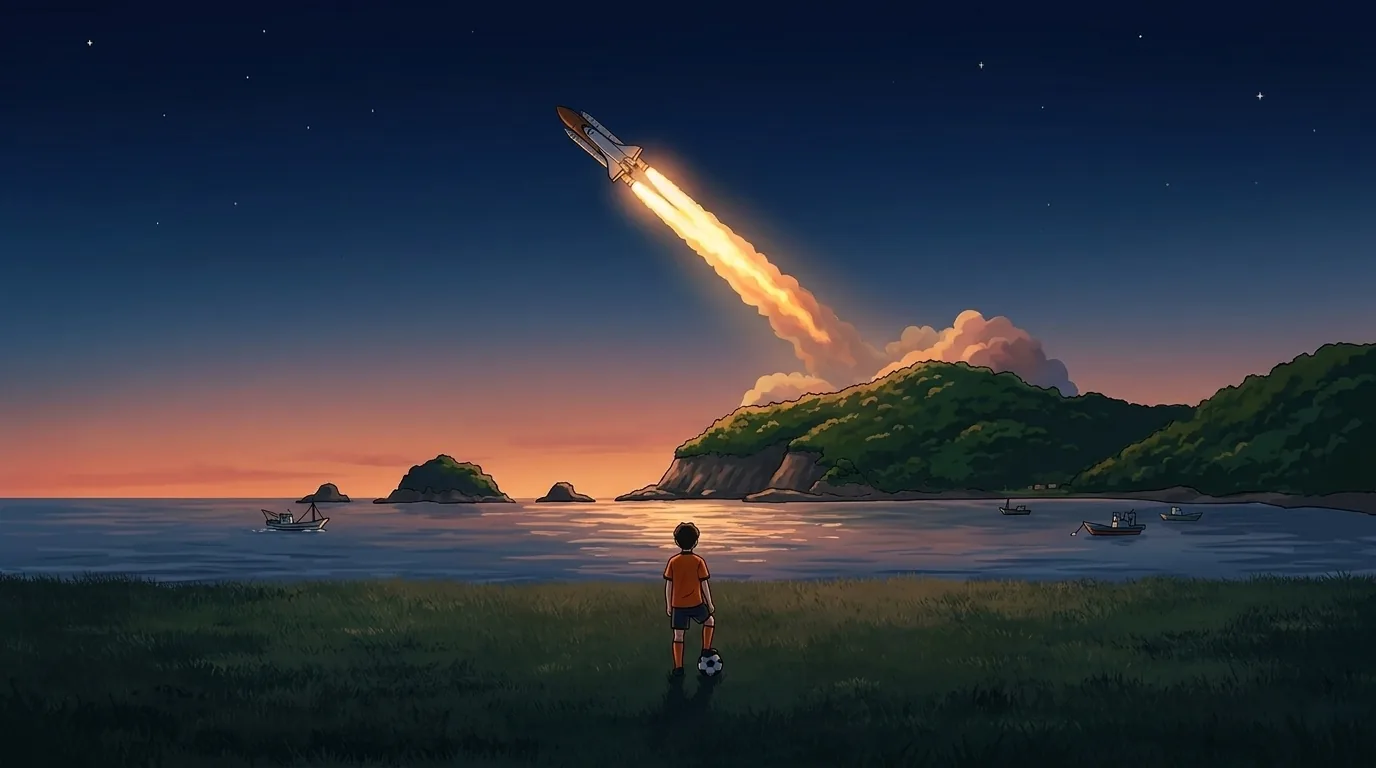
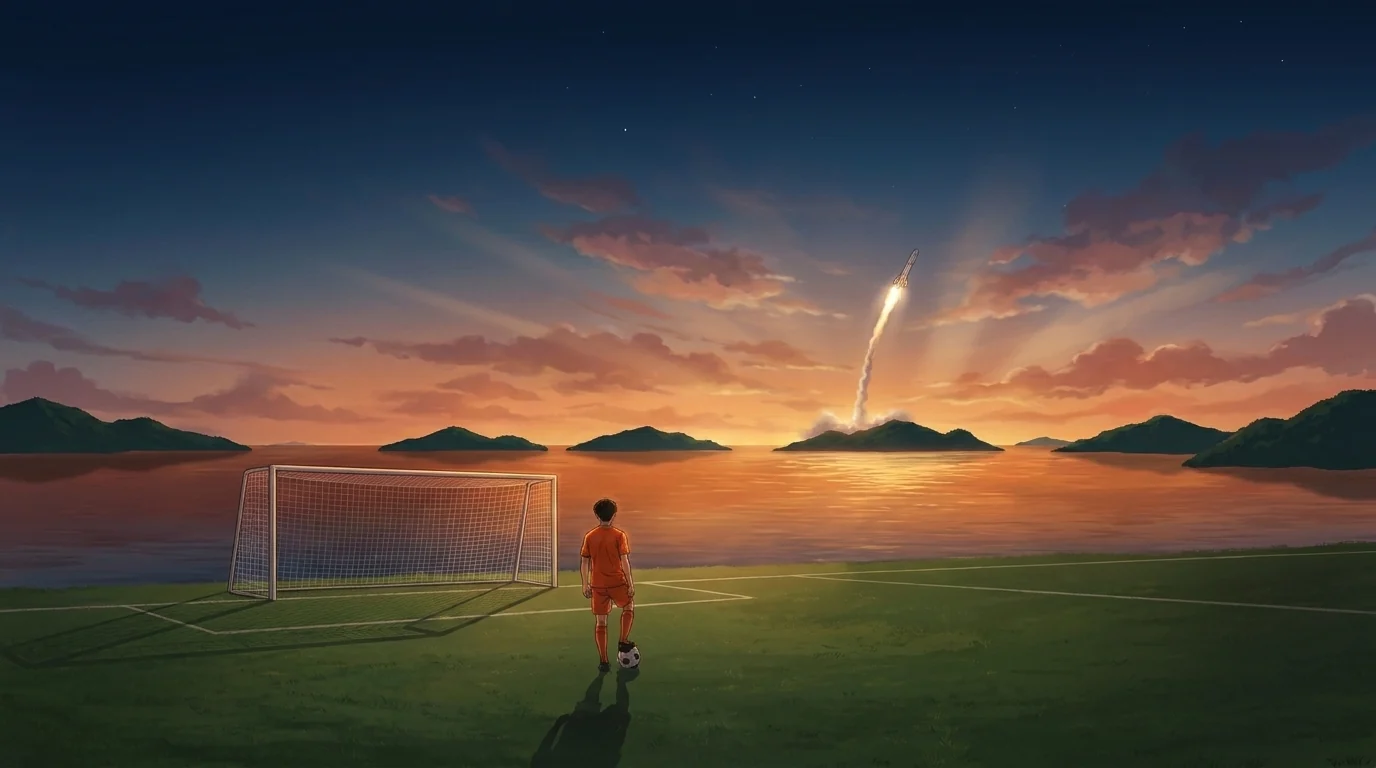
타이틀 그림 교체와 가운데 정렬 배치로 다시 설계 (HANDOFF §48)
Claude-Session: https://claude.ai/code/session_01UJPqURHURS7BfF7J2dMEg2

diff --git a/css/fc.css b/css/fc.css
@@ -167,74 +167,74 @@ body::before {
 .sheet { background: linear-gradient(180deg, rgba(28,38,92,.96), rgba(12,17,44,.98)); border: 1px solid var(--line); border-top: 3px solid var(--kit); }
 .sheet h2 { letter-spacing: .01em; }
 
-/* ── 타이틀 ───────────────────────── */
-.fc-title { position: relative; min-height: 100dvh; overflow: hidden; display: grid; grid-template-rows: 1fr auto auto auto;
-  padding: 28px max(20px, 6vw) calc(28px + env(safe-area-inset-bottom, 0px)); cursor: pointer; }
-.ft-bg { position: absolute; inset: 0; z-index: -1;
-  background: radial-gradient(80% 60% at 70% 20%, rgba(255,107,26,.38), transparent 60%), radial-gradient(70% 60% at 10% 90%, rgba(45,63,209,.5), transparent 60%), #05070F; }
-.ft-bg img { position: absolute; inset: 0; width: 100%; height: 100%; object-fit: cover; opacity: .55; animation: kenburns 20s ease-out forwards; }
-.ft-bg::after { content: ""; position: absolute; inset: 0; background: linear-gradient(180deg, rgba(5,7,15,.1) 30%, rgba(5,7,15,.92) 100%); }
+/* ── 타이틀 (§48: 가운데 정렬로 다시 설계) ──────────
+   PC·휴대폰 그림은 같은 장면(아이·골대·섬에서 오르는 로켓). 로고 묶음은 위쪽 하늘 가운데, 로켓보다 위.
+   "화면을 눌러 시작"과 메뉴는 아래 가운데. 메뉴를 열면 아래를 어둡게 해서 글이 그림에 묻히지 않게 */
+.fc-title { position: relative; min-height: 100dvh; overflow: hidden; display: flex; flex-direction: column; align-items: center; text-align: center;
+  padding: calc(max(5dvh, 44px) + env(safe-area-inset-top, 0px)) max(20px, 5vw) calc(18px + env(safe-area-inset-bottom, 0px)); cursor: pointer; }
+.ft-bg { position: absolute; inset: 0; z-index: -1; background: #05070F; }
+.ft-bg img { position: absolute; inset: 0; width: 100%; height: 100%; object-fit: cover; object-position: 50% 60%; animation: kenburns 24s ease-out forwards; }
+.ft-bg::after { content: ""; position: absolute; inset: 0; transition: background .5s;
+  background: linear-gradient(180deg, rgba(5,7,15,.62) 0%, rgba(5,7,15,.28) 24%, rgba(5,7,15,0) 42%, rgba(5,7,15,0) 70%, rgba(5,7,15,.45) 88%, rgba(5,7,15,.75) 100%); }
+.fc-title.open .ft-bg::after {
+  background: linear-gradient(180deg, rgba(5,7,15,.62) 0%, rgba(5,7,15,.3) 24%, rgba(5,7,15,.25) 40%, rgba(5,7,15,.72) 62%, rgba(5,7,15,.9) 100%); }
 .ft-streak { position: absolute; z-index: 1; width: 160%; height: 2px; left: -30%; background: linear-gradient(90deg, transparent, rgba(255,178,63,.9), transparent);
   transform: rotate(-18deg); filter: blur(.5px); animation: streak 6s linear infinite; opacity: 0; }
 .ft-streak.s1 { top: 30%; } .ft-streak.s2 { top: 52%; animation-delay: 2s; height: 1px; } .ft-streak.s3 { top: 72%; animation-delay: 4s; }
-@keyframes streak { 0% { opacity: 0; transform: rotate(-18deg) translateX(-30%); } 15% { opacity: 1; } 60% { opacity: 0; transform: rotate(-18deg) translateX(30%); } 100% { opacity: 0; } }
-.ft-brand { align-self: end; display: flex; align-items: flex-end; gap: 18px; position: relative; z-index: 2; animation: rise .9s ease-out both; }
-.ft-logo { width: clamp(84px, 16vw, 130px); filter: drop-shadow(0 12px 30px rgba(0,0,0,.6)); }
-.ft-kicker { font-family: var(--fc); font-style: italic; font-weight: 800; letter-spacing: .2em; color: var(--kit-2); font-size: 14px; }
-.ft-name { margin: 2px 0 4px; font-family: var(--fc); font-style: italic; font-weight: 800; font-size: clamp(54px, 13vw, 120px); line-height: .86; letter-spacing: -.01em;
-  background: linear-gradient(180deg, #fff 30%, #FFC48A 100%); -webkit-background-clip: text; background-clip: text; color: transparent; }
-.ft-ko { margin: 0; font-family: var(--display); font-size: clamp(16px, 4vw, 22px); color: var(--chalk); }
-.ft-press { justify-self: center; margin-top: 34px; background: none; border: 0; color: #fff; font-family: var(--display); font-size: 18px; letter-spacing: .1em;
-  animation: pulse 1.6s ease-in-out infinite; position: relative; z-index: 2; }
-.ft-menu { display: grid; gap: 10px; margin-top: 28px; position: relative; z-index: 2; max-width: 520px; width: 100%; justify-self: start; animation: rise .4s ease-out both; }
-.ft-tile { display: grid; gap: 2px; text-align: left; padding: 14px 20px; border: 0; color: #fff;
-  background: linear-gradient(90deg, rgba(255,255,255,.12), rgba(255,255,255,.03)); border-left: 4px solid rgba(255,255,255,.4);
-  clip-path: polygon(0 0, 100% 0, calc(100% - 14px) 100%, 0 100%); transition: transform .15s, background .15s; }
-.ft-tile:hover, .ft-tile:focus-visible { transform: translateX(6px); background: linear-gradient(90deg, rgba(255,107,26,.5), rgba(255,107,26,.08)); border-left-color: var(--kit-2); }
-.ft-tile.main { background: var(--grad-kit); border-left-color: #fff; }
-.ft-t { font-family: var(--display); font-size: 20px; }
-.ft-s { font-size: 13px; opacity: .85; }
-.ft-foot { margin: 22px 0 0; font-size: 12px; color: var(--dim); position: relative; z-index: 2; }
-@media (min-width: 900px) {
-  .fc-title { grid-template-columns: 1.2fr 1fr; grid-template-rows: 1fr auto; column-gap: 40px; }
-  .ft-brand { grid-column: 1; grid-row: 1; min-width: 0; }
-  .ft-name { font-size: clamp(54px, 7vw, 120px); }                 /* 메뉴 칸을 침범하지 않게 왼쪽 칸 너비에 맞춤 */
-  .ft-press { grid-column: 2; grid-row: 1; align-self: end; }
-  .ft-menu { grid-column: 2; grid-row: 1; align-self: end; margin: 0; }
-  .ft-foot { grid-column: 1 / -1; }
+@keyframes streak { 0% { opacity: 0; transform: rotate(-18deg) translateX(-30%); } 15% { opacity: .6; } 60% { opacity: 0; transform: rotate(-18deg) translateX(30%); } 100% { opacity: 0; } }
+
+/* 로고 묶음: 엠블럼 + 글자, 묶음 전체를 가운데에 */
+.ft-brand { display: flex; align-items: center; justify-content: center; gap: clamp(12px, 2vw, 22px); position: relative; z-index: 2; text-align: left; animation: rise .9s ease-out both; }
+.ft-logo { width: clamp(64px, 9vw, 112px); flex: none; filter: drop-shadow(0 10px 24px rgba(0,0,0,.55)); }
+.ft-words { min-width: 0; }
+.ft-kicker { font-family: var(--fc); font-style: italic; font-weight: 800; letter-spacing: .22em; color: var(--kit-2); font-size: clamp(11px, 1.2vw, 14px); text-shadow: 0 1px 8px rgba(0,0,0,.6); }
+.ft-name { margin: 2px 0 4px; font-family: var(--fc); font-style: italic; font-weight: 800; font-size: clamp(44px, 6.4vw, 96px); line-height: .9; letter-spacing: -.01em;
+  background: linear-gradient(180deg, #fff 40%, #FFD9B8); -webkit-background-clip: text; background-clip: text; color: transparent; filter: drop-shadow(0 4px 18px rgba(0,0,0,.55)); }
+.ft-br { display: none; }
+.ft-ko { margin: 0; font-family: var(--display); font-size: clamp(14px, 1.6vw, 20px); color: var(--chalk); letter-spacing: .04em; text-shadow: 0 1px 8px rgba(0,0,0,.7); }
+
+/* 시작 안내는 로고 바로 아래 하늘에(아이·공을 가리지 않게). 메뉴·로그인 정보·만든 사람은 아래 가운데 */
+.ft-press { margin-top: clamp(14px, 3.5dvh, 36px); background: none; border: 0; color: #fff; font-family: var(--display); font-size: clamp(16px, 1.6vw, 19px); letter-spacing: .14em;
+  padding: 10px 22px; text-shadow: 0 2px 12px rgba(0,0,0,.8); animation: pulse 1.6s ease-in-out infinite; position: relative; z-index: 2; }
+.ft-menu { margin-top: auto; display: grid; gap: 10px; width: min(440px, 100%); position: relative; z-index: 2; animation: rise .4s ease-out both; }
+.ft-tile { position: relative; display: grid; margin: 0; max-width: none;   /* style.css의 .main(margin auto)이 "새 커리어" 칸을 좁히던 것 막음 */
+  gap: 2px; text-align: left; padding: 14px 44px 14px 20px; color: #fff; border-radius: 14px;
+  background: rgba(14,20,46,.58); border: 1px solid rgba(255,255,255,.14); backdrop-filter: blur(8px); -webkit-backdrop-filter: blur(8px);
+  box-shadow: 0 8px 24px rgba(0,0,0,.25); transition: background .15s, border-color .15s, transform .15s; }
+.ft-tile::after { content: "›"; position: absolute; right: 18px; top: 50%; transform: translateY(-50%); font-size: 24px; opacity: .6; }
+.ft-tile:hover, .ft-tile:focus-visible { background: rgba(255,107,26,.28); border-color: rgba(255,178,63,.7); transform: translateY(-1px); outline: none; }
+.ft-tile.main { background: var(--grad-kit); border-color: rgba(255,255,255,.35); }
+.ft-tile.main:hover, .ft-tile.main:focus-visible { filter: brightness(1.08); }
+.fc-title .ft-tile:active { transform: scale(.98); }
+.ft-t { font-family: var(--display); font-size: 19px; }
+.ft-s { font-size: 13px; opacity: .82; }
+.fc-title .ft-user { position: static; margin: 14px 0 0; display: flex; flex-wrap: wrap; justify-content: center; text-shadow: 0 1px 6px rgba(0,0,0,.8); }
+.fc-title:not(.open) .ft-user { margin-top: auto; }
+.fc-title:not(.open):not(:has(.ft-user)) .ft-foot { margin-top: auto; }
+.ft-foot { margin: 10px 0 0; font-size: 12px; color: rgba(255,255,255,.55); position: relative; z-index: 2; text-shadow: 0 1px 6px rgba(0,0,0,.8); }
+.fc-title.open { overflow-y: auto; height: 100dvh; }
+
+/* 세로 화면(휴대폰·세로 태블릿): 세로 그림, 이름은 두 줄 */
+@media (orientation: portrait) {
+  .ft-bg img { object-position: 50% 100%; }
+  .fc-title { padding-top: calc(max(8dvh, 64px) + env(safe-area-inset-top, 0px)); }   /* 오른쪽 위 소리·전체 화면 버튼 아래로 */
+  .ft-br { display: inline; }
+  .ft-name { font-size: clamp(40px, 11.5vw, 72px); }
+  .ft-logo { width: clamp(60px, 16vw, 104px); }
+  .ft-kicker { font-size: clamp(10px, 2.8vw, 14px); }
+  .ft-ko { font-size: clamp(14px, 3.8vw, 20px); }
 }
-/* 휴대폰 세로: 세로 그림(title_m). 로고는 하늘 쪽 위에, 아이·그림자·골대가 있는 아래는 비워 둠. 메뉴를 열면 아래를 어둡게 */
-@media (orientation: portrait) and (max-width: 760px) {
-  .fc-title { grid-template-rows: auto auto auto 1fr auto; align-content: start; padding-top: calc(15dvh + env(safe-area-inset-top, 0px)); }
-  .ft-brand { align-self: start; }
-  .ft-bg img { opacity: .9; object-position: 50% 100%; animation: none; }
-  .ft-bg::after { background: linear-gradient(180deg, rgba(5,7,15,.35) 0%, rgba(5,7,15,.45) 30%, rgba(5,7,15,.05) 55%, rgba(5,7,15,0) 75%, rgba(5,7,15,.35) 100%); transition: background .5s; }
-  .fc-title.open .ft-bg::after { background: linear-gradient(180deg, rgba(5,7,15,.4) 0%, rgba(5,7,15,.55) 35%, rgba(5,7,15,.82) 60%, rgba(5,7,15,.92) 100%); }
-  .ft-press { margin-top: 26px; text-shadow: 0 2px 10px rgba(0,0,0,.7); }
-  /* 로그인 정보(관리자·로그아웃)와 "made by"는 맨 아래 두 줄로. 겹치거나 잘리지 않게 화면 흐름 안에 둠 */
-  .fc-title .ft-user { position: static; grid-row: 5; align-self: end; justify-self: center; margin: 18px 0 0; max-width: 100%; flex-wrap: wrap; justify-content: center; }
-  .ft-foot { grid-row: 6; align-self: end; justify-self: center; margin-top: 10px; text-shadow: 0 1px 6px rgba(0,0,0,.8); }
-  /* 메뉴를 열기 전에는 "화면을 눌러 시작" 바로 아래(하늘 쪽)에 두어 아이·그림자를 가리지 않게 */
-  .fc-title:not(.open) .ft-user { grid-row: 3; align-self: start; margin-top: 16px; }
-  .ft-logo { width: clamp(70px, 19vw, 96px); }
-  .ft-brand { gap: 12px; }
-  .ft-name { font-size: clamp(40px, 12.4vw, 64px); }
-  /* 메뉴를 열면 위 여백을 줄이고, 작은 휴대폰에서는 스크롤로 끝까지 */
-  .fc-title.open { padding-top: calc(7dvh + env(safe-area-inset-top, 0px)); overflow-y: auto; height: 100dvh; }
-  .fc-title.open .ft-menu { margin-top: 18px; }
-}
-/* 키가 작은 휴대폰(예: 320×568, 375×667): 메뉴를 열어도 한 화면에 들어오게 촘촘히 */
-@media (orientation: portrait) and (max-width: 760px) and (max-height: 700px) {
-  .fc-title.open { padding-top: calc(max(4dvh, 52px) + env(safe-area-inset-top, 0px)); }
-  .fc-title.open .ft-logo { width: 62px; }
-  .fc-title.open .ft-name { font-size: clamp(34px, 10.5vw, 48px); }
-  .fc-title.open .ft-menu { gap: 7px; margin-top: 12px; }
-  .fc-title.open .ft-tile { padding: 9px 16px; }
+/* 키가 작은 화면: 메뉴를 열어도 한 화면에 들어오게 촘촘히 */
+@media (max-height: 700px) {
+  .fc-title.open { padding-top: calc(58px + env(safe-area-inset-top, 0px)); }
+  .fc-title.open .ft-menu { gap: 7px; }
+  .fc-title.open .ft-tile { padding: 9px 40px 9px 16px; }
   .fc-title.open .ft-t { font-size: 17px; }
   .fc-title.open .ft-s { font-size: 12px; }
-  .fc-title.open .ft-user { margin-top: 10px; }
-  .fc-title.open .ft-foot { margin-top: 6px; }
-  .ft-tile { padding: 12px 18px; }
+}
+@media (max-height: 460px) {     /* 가로로 눕힌 휴대폰 */
+  .fc-title.open .ft-brand { display: none; }
+  .ft-logo { width: 52px; } .ft-name { font-size: 38px; }
 }
 
 /* ── 도입부 덧칠 ─────────────────── */

diff --git a/js/game.bundle.js b/js/game.bundle.js
@@ -18498,10 +18498,10 @@ function renderTitle(app) {
   const auto = readSlot("auto");
   const cont = auto && !auto.state.finished;
   app.root.innerHTML = `<main class="fc-title" id="ft">
-    <div class="ft-bg"><picture><source media="(orientation: portrait) and (max-width: 760px)" srcset="assets/img/title_m.webp"><img src="assets/img/title.webp" data-name="title" alt="" onerror="__bgFallback(this)"></picture><span class="ft-streak s1"></span><span class="ft-streak s2"></span><span class="ft-streak s3"></span></div>
+    <div class="ft-bg"><picture><source media="(orientation: portrait)" srcset="assets/img/title_m.webp"><img src="assets/img/title.webp" data-name="title" alt="" onerror="__bgFallback(this)"></picture><span class="ft-streak s1"></span><span class="ft-streak s2"></span><span class="ft-streak s3"></span></div>
     <div class="ft-brand">
       <img class="ft-logo" src="assets/img/logo.png" alt="고흥FC 엠블럼">
-      <div class="ft-words"><span class="ft-kicker">GOHEUNG FC U-15</span><h1 class="ft-name">DREAM<br>PROJECT</h1><p class="ft-ko">고흥FC 드림 프로젝트</p></div>
+      <div class="ft-words"><span class="ft-kicker">GOHEUNG FC U-15</span><h1 class="ft-name">DREAM <br class="ft-br">PROJECT</h1><p class="ft-ko">고흥FC 드림 프로젝트</p></div>
     </div>
     <button class="ft-press" id="press">화면을 눌러 시작</button>
     <nav class="ft-menu" id="menu" hidden>

diff --git a/js/main.js b/js/main.js
@@ -196,10 +196,10 @@ function renderTitle(app) {
   const auto = readSlot("auto");
   const cont = auto && !auto.state.finished;
   app.root.innerHTML = `<main class="fc-title" id="ft">
-    <div class="ft-bg"><picture><source media="(orientation: portrait) and (max-width: 760px)" srcset="assets/img/title_m.webp"><img src="assets/img/title.webp" data-name="title" alt="" onerror="__bgFallback(this)"></picture><span class="ft-streak s1"></span><span class="ft-streak s2"></span><span class="ft-streak s3"></span></div>
+    <div class="ft-bg"><picture><source media="(orientation: portrait)" srcset="assets/img/title_m.webp"><img src="assets/img/title.webp" data-name="title" alt="" onerror="__bgFallback(this)"></picture><span class="ft-streak s1"></span><span class="ft-streak s2"></span><span class="ft-streak s3"></span></div>
     <div class="ft-brand">
       <img class="ft-logo" src="assets/img/logo.png" alt="고흥FC 엠블럼">
-      <div class="ft-words"><span class="ft-kicker">GOHEUNG FC U-15</span><h1 class="ft-name">DREAM<br>PROJECT</h1><p class="ft-ko">고흥FC 드림 프로젝트</p></div>
+      <div class="ft-words"><span class="ft-kicker">GOHEUNG FC U-15</span><h1 class="ft-name">DREAM <br class="ft-br">PROJECT</h1><p class="ft-ko">고흥FC 드림 프로젝트</p></div>
     </div>
     <button class="ft-press" id="press">화면을 눌러 시작</button>
     <nav class="ft-menu" id="menu" hidden>

diff --git a/offline-files.js b/offline-files.js
@@ -2,7 +2,7 @@
 self.OFFLINE_FILES = [
   ["index.html","5d5bda3868"],
   ["manifest.webmanifest","989936b74c"],
-  ["css/fc.css","9c8ac1e0cf"],
+  ["css/fc.css","eef2d9f1b0"],
   ["css/fc26.css","bdb90b30ae"],
   ["css/polish.css","f9a8c27e6c"],
   ["css/style.css","0eae8b16ab"],
@@ -28,7 +28,7 @@ self.OFFLINE_FILES = [
   ["js/engine/team.js","9135c63504"],
   ["js/engine/traits.js","4b5e58ed33"],
   ["js/engine/week.js","c285e715ba"],
-  ["js/main.js","6b4d3fa45c"],
+  ["js/main.js","b32705ae2d"],
   ["js/net/fb.js","08bb7a880a"],
   ["js/net/online.js","fe636b060f"],
   ["js/rng.js","0c6689a4aa"],
@@ -177,6 +177,6 @@ self.OFFLINE_FILES = [
   ["assets/img/npc_jn_coach.webp","06f10f0b24"],
   ["assets/img/npc_mom.webp","f669f041c3"],
   ["assets/img/npc_teacher.webp","d0ce060841"],
-  ["assets/img/title.webp","77bf067dac"],
-  ["assets/img/title_m.webp","893af6e3f7"]
+  ["assets/img/title.webp","e3a869560d"],
+  ["assets/img/title_m.webp","40dcab3f32"]
 ];

diff --git a/sw.js b/sw.js
@@ -8,7 +8,7 @@
 // - 그림·글꼴은 "저장본 먼저": 저장본을 바로 보여 주고, 인터넷이 되면 뒤에서 새 파일로 바꿔 둠.
 // - 미리 받아 둘 파일 목록은 offline-files.js (node tools/bundle.mjs 가 자동으로 만듦)
 
-const BUILD = "7c0921c38fdd";                // node tools/bundle.mjs 가 자동으로 바꿈 (바뀌면 새 버전으로 인식)
+const BUILD = "5980f1c0bc77";                // node tools/bundle.mjs 가 자동으로 바꿈 (바뀌면 새 버전으로 인식)
 importScripts("offline-files.js?b=" + BUILD);   // 빌드마다 주소가 달라 예전 목록이 캐시에서 나오지 않음
 const CACHE = "gfc-files";          // 게임 파일
 const FONT_CACHE = "gfc-fonts-v1";  // 인터넷 글꼴
